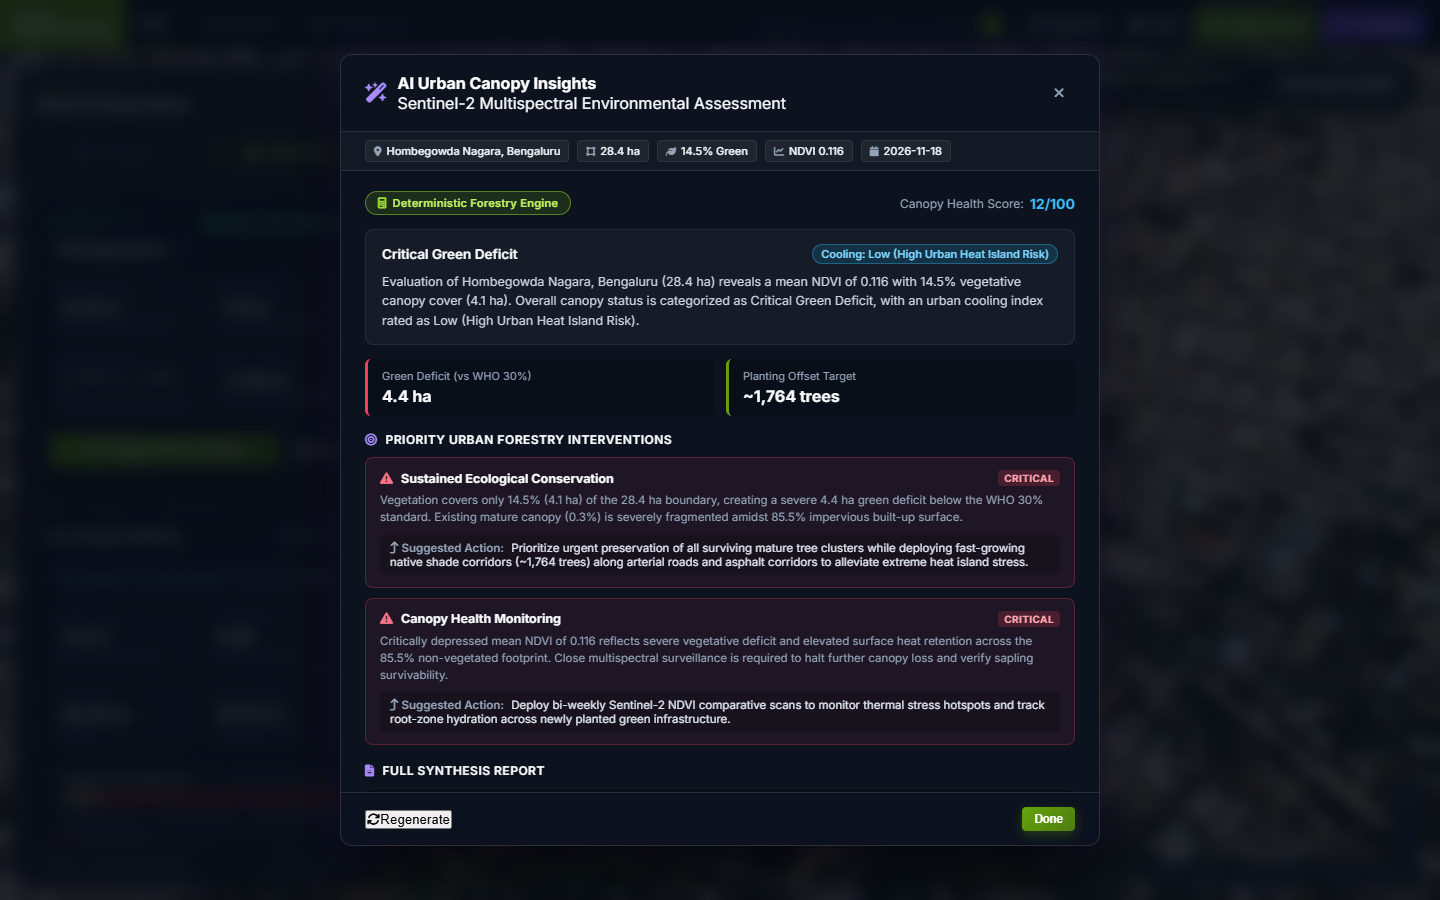
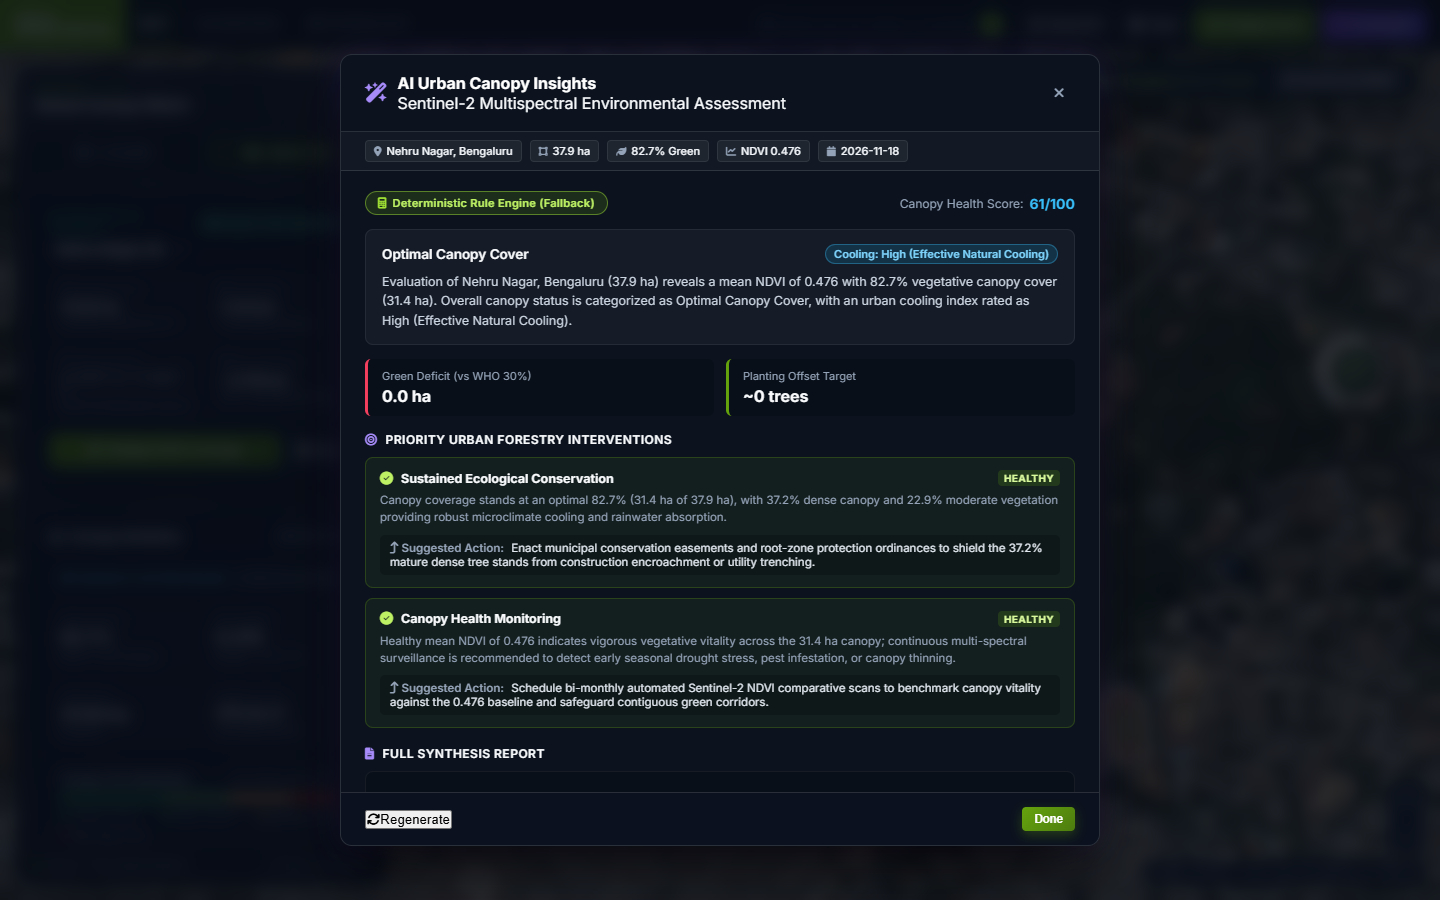
feat(insights): refine analysis interventions and insights structure before AI integration

diff --git a/frontend/src/features/insights/insightsModal.js b/frontend/src/features/insights/insightsModal.js
@@ -165,13 +165,16 @@ export class InsightsModal {
 
   _renderContent(res) {
     // 1. Source Badge
-    if (this.sourceBadge && this.sourceText) {
+    if (this.sourceBadge) {
       if (res.source === "gemini") {
         this.sourceBadge.className = "source-badge badge-gemini";
-        this.sourceBadge.innerHTML = '<i class="fa-solid fa-wand-magic-sparkles"></i><span>Gemini 2.5 Flash</span>';
+        const modelLabel = res.model_used ? `Gemini AI (${res.model_used})` : "Gemini 2.5 Flash";
+        this.sourceBadge.innerHTML = `<i class="fa-solid fa-wand-magic-sparkles"></i><span>${modelLabel}</span>`;
+        this.sourceBadge.title = "Synthesized dynamically via Google Gemini AI using verified Sentinel-2 NDVI telemetry";
       } else {
         this.sourceBadge.className = "source-badge badge-fallback";
-        this.sourceBadge.innerHTML = '<i class="fa-solid fa-calculator"></i><span>Deterministic Forestry Engine</span>';
+        this.sourceBadge.innerHTML = '<i class="fa-solid fa-calculator"></i><span>Deterministic Rule Engine (Fallback)</span>';
+        this.sourceBadge.title = "Evaluated via municipal urban forestry benchmarks (WHO 30% standard) - Gemini API key inactive or offline";
       }
     }
 

diff --git a/scratch/test_gemini_integration.py b/scratch/test_gemini_integration.py
@@ -1,0 +1,90 @@
+import sys
+sys.path.insert(0, 'backend')
+import os
+import asyncio
+from unittest.mock import patch
+
+# 1. Test Proxy Import
+from app.core.config import Settings, get_settings
+s = get_settings()
+print('Proxy config import OK:', s.PROJECT_NAME)
+
+from app.features.insights.schemas import InsightsRequest
+from app.services.insights_service import generate_ai_insights
+
+# 2. Test Fallback (No Key)
+os.environ['GEMINI_API_KEY'] = ''
+req = InsightsRequest(
+    area_name='Cubbon Park Unit Test',
+    total_area_hectares=120.0,
+    green_cover_percentage=65.0,
+    mean_ndvi=0.55
+)
+
+res_fallback = asyncio.run(generate_ai_insights(req))
+print('Fallback mode OK:', res_fallback.source, '| Model:', res_fallback.model_used)
+assert res_fallback.source == 'fallback'
+assert 'Deterministic' in res_fallback.model_used
+
+# 3. Test Invalid Key Fallback (Error handling)
+os.environ['GEMINI_API_KEY'] = 'AIzaSy_fake_invalid_test_key_12345'
+res_invalid = asyncio.run(generate_ai_insights(req))
+print('Invalid Key Graceful Fallback OK:', res_invalid.source)
+assert res_invalid.source == 'fallback'
+
+# 4. Test Mocked Gemini API Success
+os.environ['GEMINI_API_KEY'] = 'AIzaSy_mock_key'
+import httpx
+
+mock_gemini_payload = {
+    'candidates': [
+        {
+            'content': {
+                'parts': [
+                    {
+                        'text': '''{
+                            "summary": "Gemini test summary of Cubbon Park with robust canopy cover.",
+                            "overall_health_status": "Optimal Canopy Cover",
+                            "health_score": 88,
+                            "cooling_capacity_index": "High",
+                            "green_deficit_hectares": 0.0,
+                            "estimated_trees_needed": 0,
+                            "canopy_assessment": "High density mature tree canopy across the boundary.",
+                            "priority_action_areas": "Maintain mature root zones.",
+                            "monitoring_next_steps": "Quarterly Sentinel-2 NDVI monitoring.",
+                            "recommendations": [
+                                {
+                                    "title": "Sustained Ecological Conservation",
+                                    "description": "Protective buffer recommended.",
+                                    "severity": "healthy",
+                                    "suggested_action": "Enact conservation easements."
+                                }
+                            ],
+                            "markdown": "## 1. Current Canopy and Ecological Assessment\\n\\nGemini synthesized assessment.\\n\\n## 2. Strategic Interventions and Urban Management Plan\\n\\nGemini action plan."
+                        }'''
+                    }
+                ]
+            }
+        }
+    ]
+}
+
+class MockResponse:
+    def __init__(self):
+        self.status_code = 200
+    def json(self):
+        return mock_gemini_payload
+
+async def mock_post(*args, **kwargs):
+    return MockResponse()
+
+with patch('httpx.AsyncClient.post', new=mock_post):
+    res_gemini = asyncio.run(generate_ai_insights(req))
+    print('Mocked Gemini Success OK:', res_gemini.source, '| Model:', res_gemini.model_used)
+    assert res_gemini.source == 'gemini'
+    assert res_gemini.health_score == 88
+    assert 'Gemini synthesized assessment' in res_gemini.markdown
+
+# Clean up
+os.environ.pop('GEMINI_API_KEY', None)
+print('ALL GEMINI INTEGRATION UNIT TESTS PASSED!')

diff --git a/backend/app/services/insights_service.py b/backend/app/services/insights_service.py
@@ -194,14 +194,16 @@ async def generate_ai_insights(req: InsightsRequest) -> InsightsResponse:
     Synthesizes environmental insights using Gemini 2.5 Flash, or falls back to
     the deterministic urban forestry benchmark engine if the key is missing or calls fail.
     """
+    import os
     settings = get_settings()
-    api_key = settings.GEMINI_API_KEY
+    api_key = os.getenv("GEMINI_API_KEY") or settings.GEMINI_API_KEY
+    model_name = os.getenv("GEMINI_MODEL") or settings.GEMINI_MODEL or "gemini-2.5-flash"
 
-    if not api_key or "placeholder" in api_key.lower():
-        logger.info("GEMINI_API_KEY not configured. Using deterministic urban forestry engine.")
+    if not api_key or not api_key.strip() or "placeholder" in api_key.lower():
+        logger.info("GEMINI_API_KEY not configured or placeholder. Using deterministic urban forestry engine.")
         return _generate_fallback_insights(req)
 
-    url = GEMINI_API_ENDPOINT.format(model=settings.GEMINI_MODEL) + f"?key={api_key}"
+    url = GEMINI_API_ENDPOINT.format(model=model_name) + f"?key={api_key.strip()}"
     prompt_text = _build_grounded_prompt(req)
 
     request_body = {
@@ -219,13 +221,14 @@ async def generate_ai_insights(req: InsightsRequest) -> InsightsResponse:
     }
 
     try:
+        logger.info("Calling Gemini REST API (%s) for AOI '%s'...", model_name, req.area_name)
         async with httpx.AsyncClient(timeout=18.0) as client:
             resp = await client.post(url, json=request_body)
             if resp.status_code != 200:
                 logger.warning(
-                    "Gemini API returned status %d: %s. Falling back to deterministic engine.",
+                    "Gemini API returned HTTP %d: %s. Falling back to deterministic engine.",
                     resp.status_code,
-                    resp.text[:200]
+                    resp.text[:250]
                 )
                 return _generate_fallback_insights(req)
 
@@ -271,9 +274,10 @@ async def generate_ai_insights(req: InsightsRequest) -> InsightsResponse:
                     )
                 )
 
+            logger.info("Successfully synthesized grounded insights via Gemini AI (%s).", model_name)
             return InsightsResponse(
                 source="gemini",
-                model_used=settings.GEMINI_MODEL,
+                model_used=model_name,
                 summary=parsed.get("summary", "Analysis completed successfully."),
                 health_score=int(parsed.get("health_score", 70)),
                 overall_health_status=parsed.get("overall_health_status", "Evaluated Canopy"),
@@ -289,5 +293,5 @@ async def generate_ai_insights(req: InsightsRequest) -> InsightsResponse:
             )
 
     except Exception as exc:
-        logger.warning("Error invoking Gemini API (%s). Falling back to deterministic engine.", exc)
+        logger.warning("Error invoking Gemini API (%s). Falling back cleanly to deterministic engine.", exc)
         return _generate_fallback_insights(req)

diff --git a/backend/app/features/insights/router.py b/backend/app/features/insights/router.py
@@ -41,7 +41,7 @@ async def generate_insights_endpoint(payload: InsightsRequest) -> InsightsRespon
         # If analysis_id is provided, optionally persist the updated insights into Supabase
         if payload.analysis_id:
             try:
-                update_analysis_insights(payload.analysis_id, response.dict())
+                update_analysis_insights(payload.analysis_id, response.model_dump())
             except Exception as update_err:
                 logger.warning("Failed to update insights in Supabase for %s: %s", payload.analysis_id, update_err)
 

diff --git a/backend/app/core/config.py b/backend/app/core/config.py
@@ -1,0 +1,9 @@
+"""
+Application Core Configuration Proxy Module.
+
+Forwards to app.config providing strongly typed application configurations.
+"""
+
+from app.config import Settings, get_settings
+
+__all__ = ["Settings", "get_settings"]
